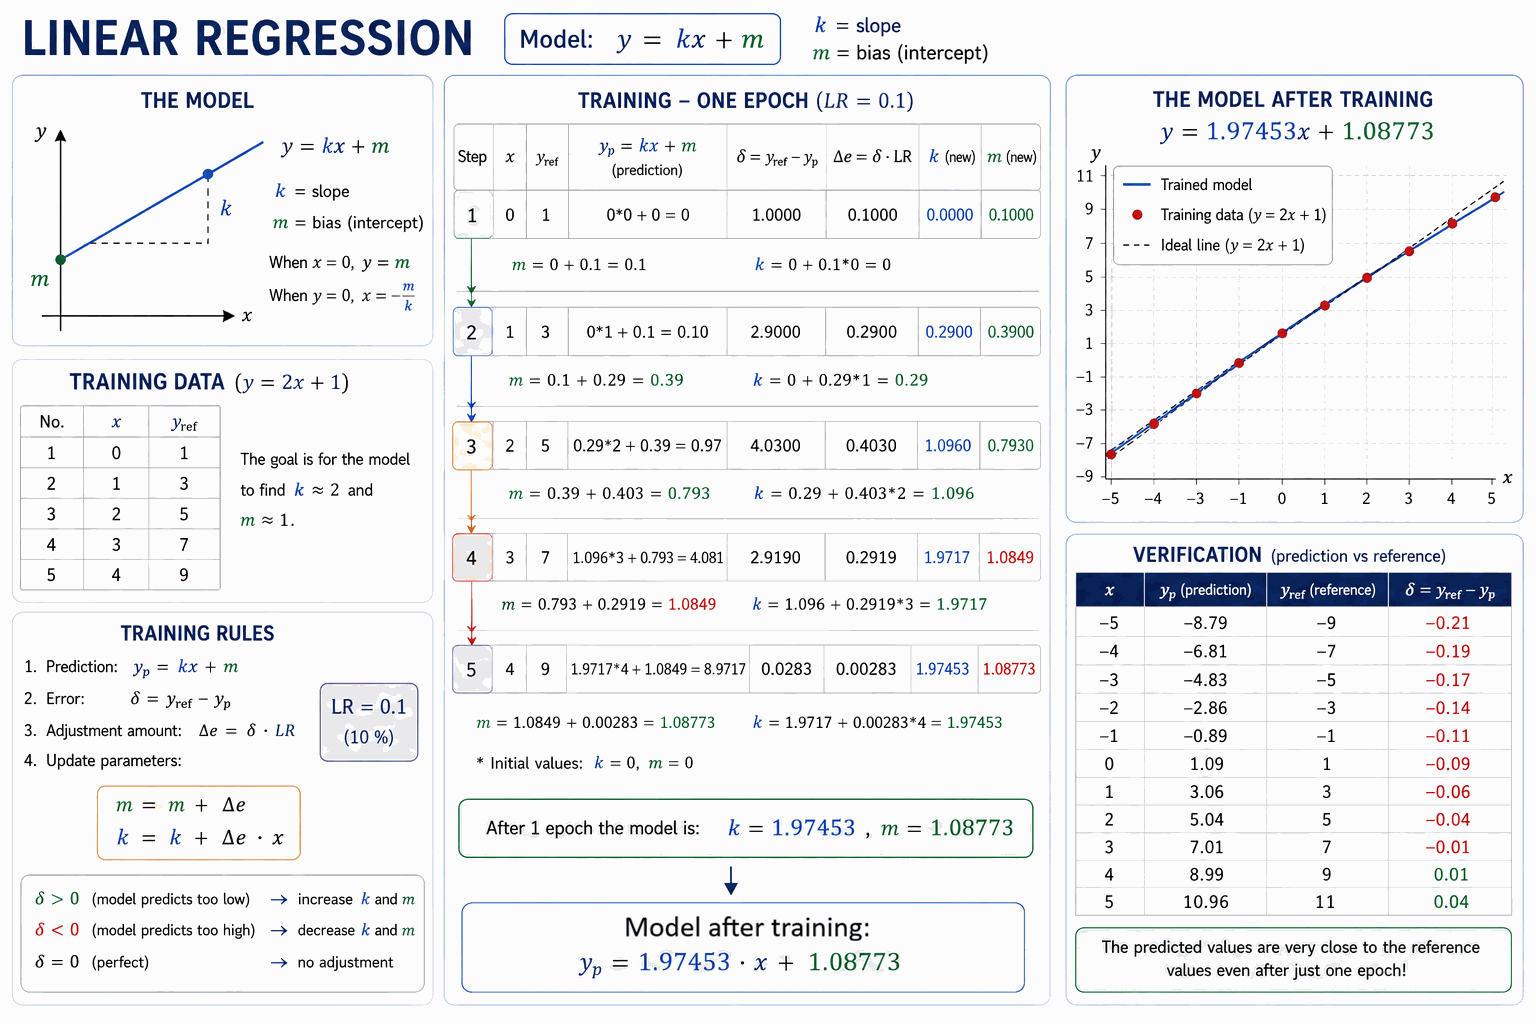
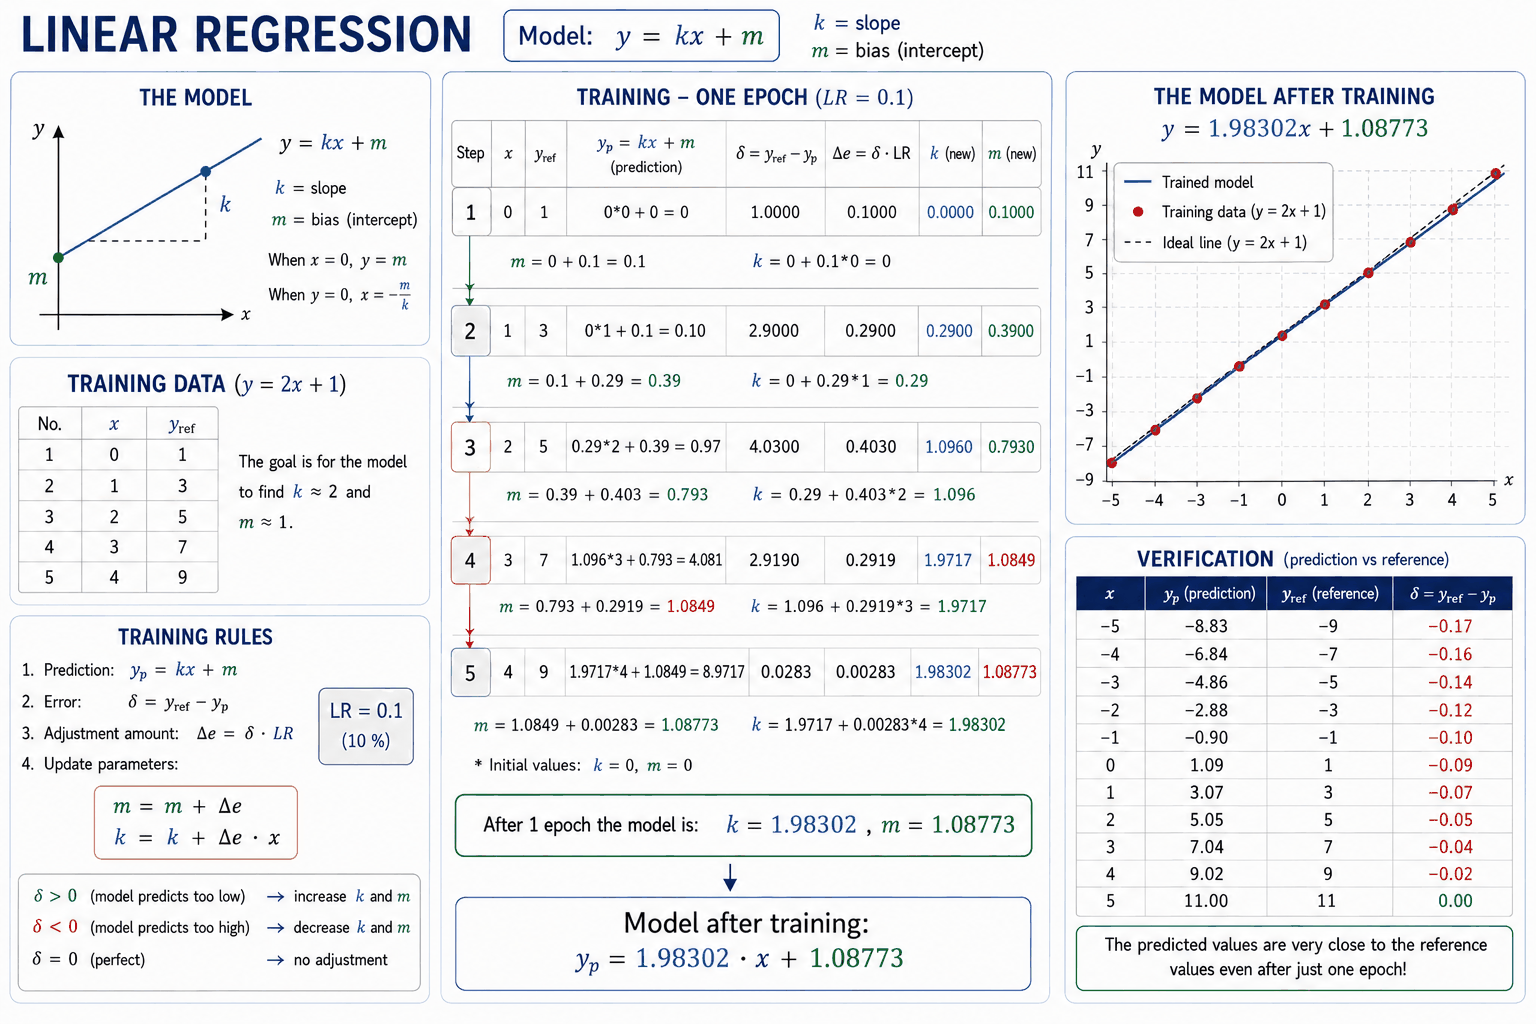
Fix typos

diff --git a/lectures/L06/appendix/b_exercises.md b/lectures/L06/appendix/b_exercises.md
@@ -311,21 +311,21 @@ Removing the outermost row and column (padding) leaves a 4×4 matrix matching th
 Finally, we update the kernel and bias using the learning rate `LR`:
 
 ```
-kernel = kernel − LR * kernelGradient
-bias   = bias   − LR * biasGradient
+kernel = kernel + LR * kernelGradient
+bias   = bias   + LR * biasGradient
 ```
 
 **Updated kernel:**
 
 ```
-0.17 0.36
-0.50 0.70
+0.23 0.44
+0.70 0.90
 ```
 
 **Updated bias:**
 
 ```
-0.4
+0.6
 ```
 
 ---

diff --git a/lectures/L01/appendix/b_exercises.md b/lectures/L01/appendix/b_exercises.md
@@ -75,7 +75,7 @@ In the header file `ml/lin_reg/interface.hpp`, add a namespace named `ml::lin_re
 In this namespace, implement an interface named `Interface` with the following public methods:
 * **`~Interface()`:**
     * The interface's destructor. 
-    * Should be marked `default` and `noexcept`.
+    * Should be marked `default`, `virtual`, and `noexcept`.
 * **`predict()`:**
     * Should perform a prediction. 
     * Should take a single floating-point argument named `input`.